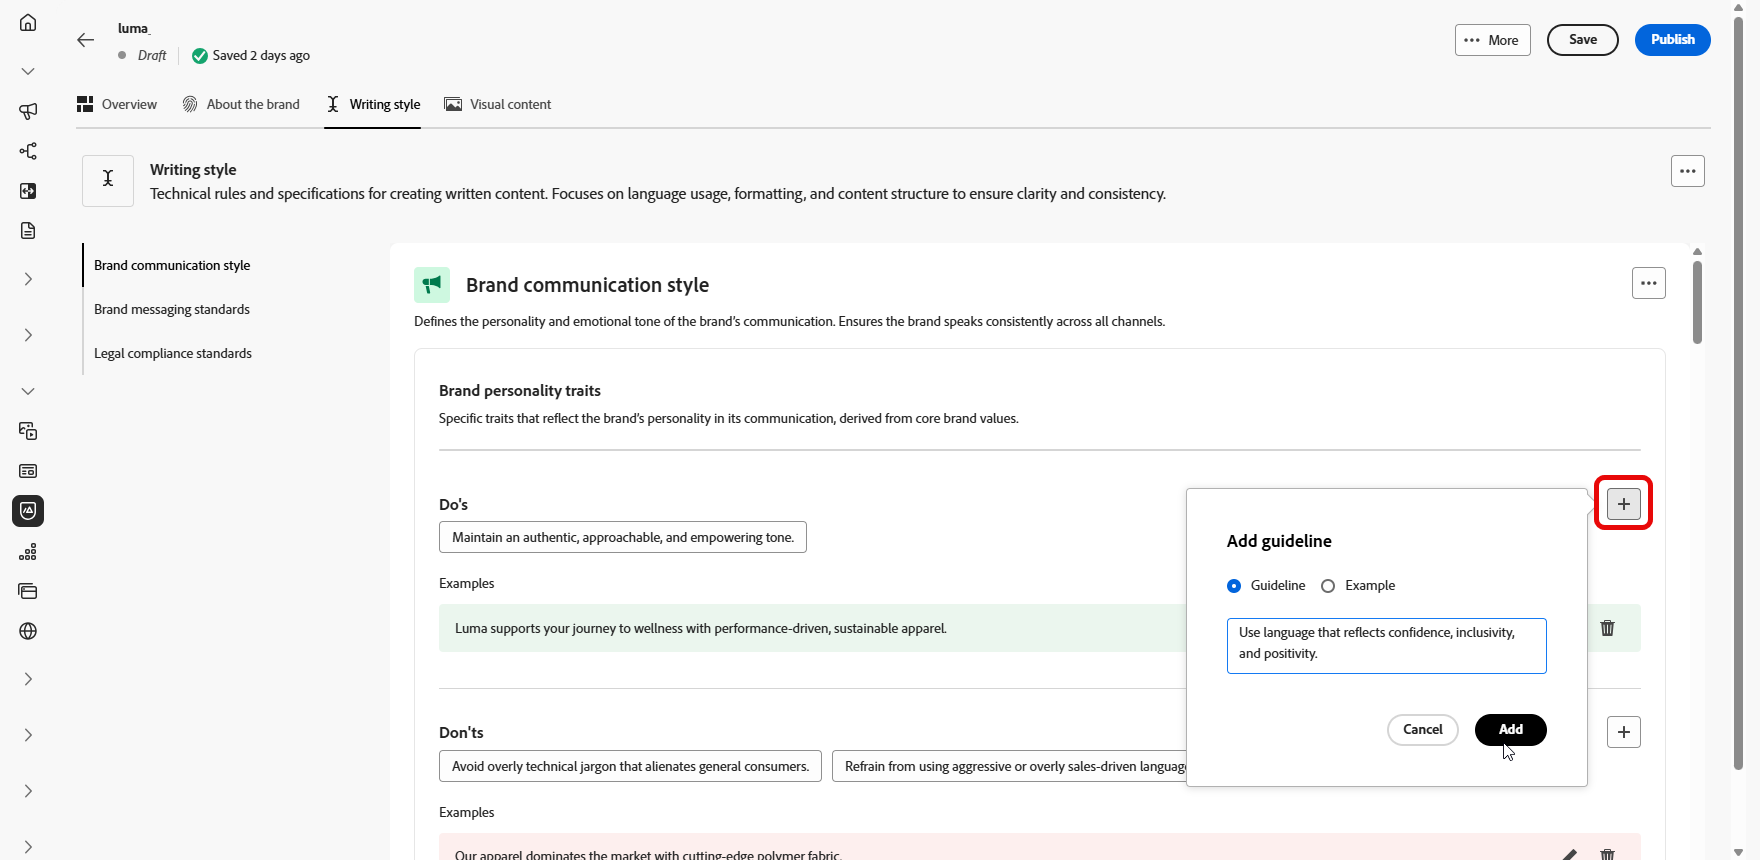
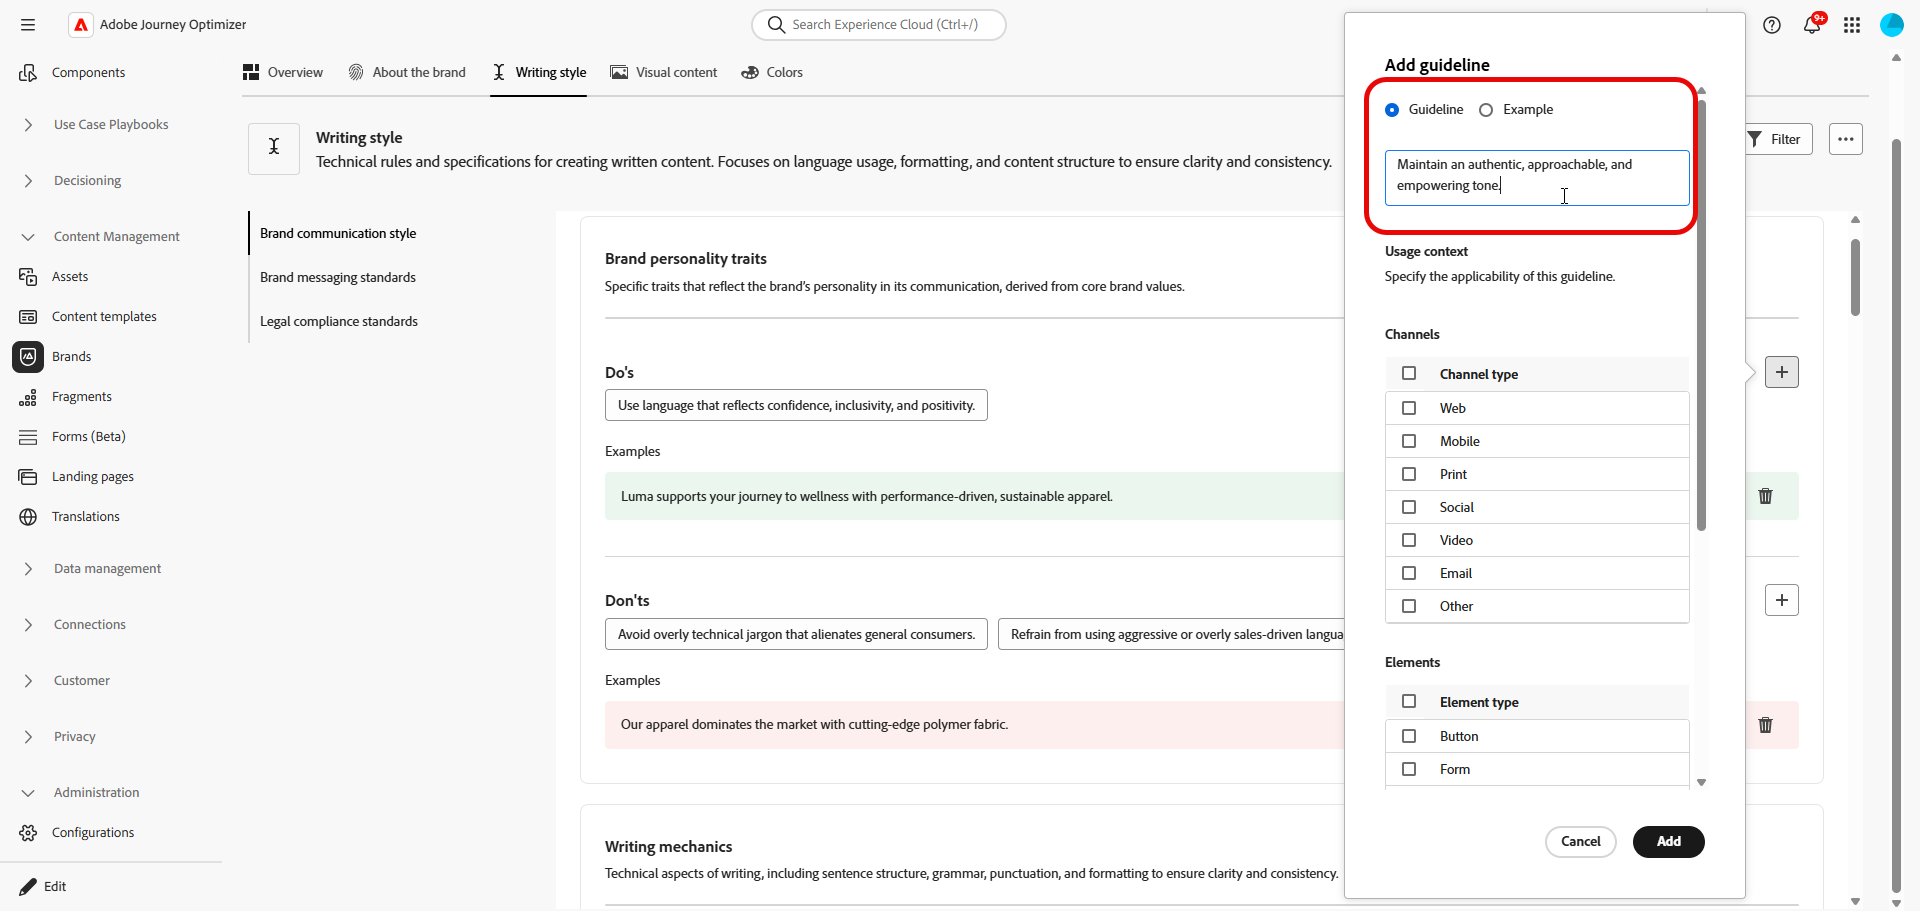
DOCAC-13810  Update Brands with new UI

diff --git a/help/using/content-management/brands.md b/help/using/content-management/brands.md
@@ -269,11 +269,21 @@ To personalize your **[!UICONTROL Writing Style]**:
 
 1. From the **[!UICONTROL Writing Style]** tab, click ![](assets/do-not-localize/Smock_Add_18_N.svg) to add a guideline, exception or exclusion.
 
-1. Enter your guideline, exception or exclusion and click **[!UICONTROL Add]**.
+1. Enter your guideline, exception or exclusion. You can also include **[!UICONTROL Examples]** to better illustrate how it should be applied.
 
     ![](assets/brands-3.png)
 
-1. Select one of your guideline or exclusion to update or delete.
+1. Specify the Usage context for your guideline, exception or exclusion:
+
+    * **[!UICONTROL Channel type]**: Choose where this guideline, exception, or exclusion should apply. For example, you may want a specific writing style to appear only in Email, Mobile, Prints, or other communication channels.
+
+    * **[!UICONTROL Element type]**: Specify which content element the rule applies to. This could include elements such as Headings, Buttons, Links, or other components within your content.
+
+      ![](assets/brands-16.png)
+
+1. Once your guideline, exception, or exclusion is set up, click **[!UICONTROL Add]**. 
+
+1. If needed, select one of your guideline or exclusion to update or delete.
 
 1. Click the ![Dive image alt text](assets/do-not-localize/Smock_Edit_18_N.svg "Edit") to edit your example or the ![Dive image alt text](assets/do-not-localize/Smock_Delete_18_N.svg "Delete")icon to delete it. 
 
@@ -331,18 +341,29 @@ To personalize your **[!UICONTROL Visual content]**:
 
 1. From the **[!UICONTROL Visual content]** tab, click ![](assets/do-not-localize/Smock_Add_18_N.svg) to add a guideline, exclusion or example. 
 
-1. Enter your guideline, exclusion or example and click **[!UICONTROL Add]**.
+1. Enter your guideline, exclusion or example.
 
     ![](assets/brands-4.png)
+
+1. Specify the Usage context for your guideline or exclusion:
+
+    * **[!UICONTROL Channel type]**: Choose where this guideline, exception, or exclusion should apply. For example, you may want a specific writing style to appear only in Email, Mobile, Prints, or other communication channels.
+
+    * **[!UICONTROL Element type]**: Specify which content element the rule applies to. This could include elements such as Headings, Buttons, Links, or other components within your content.
+
+      ![](assets/brands-16.png)
+
+1. Once your guideline, exception, or exclusion is set up, click **[!UICONTROL Add]**. 
 
 1. To add an image showing correct usage, select **[!UICONTROL Example]** and click **[!UICONTROL Select image]**. You can also add an image showing incorrect usage as an exclusion example.
 
     ![](assets/brands-13.png)
 
-1. Select one of your guideline or exclusion to update or delete.
+1. If needed, select one of your guideline or exclusion to update or delete.
 
 1. Select one your guideline or exclusion to update it. Click the ![Dive image alt text](assets/do-not-localize/Smock_Delete_18_N.svg "Delete")icon to delete it. 
 
     ![](assets/brands-14.png)
 
 You can now further personalize your brand or [publish your brand](#create-brand-kit).
+
